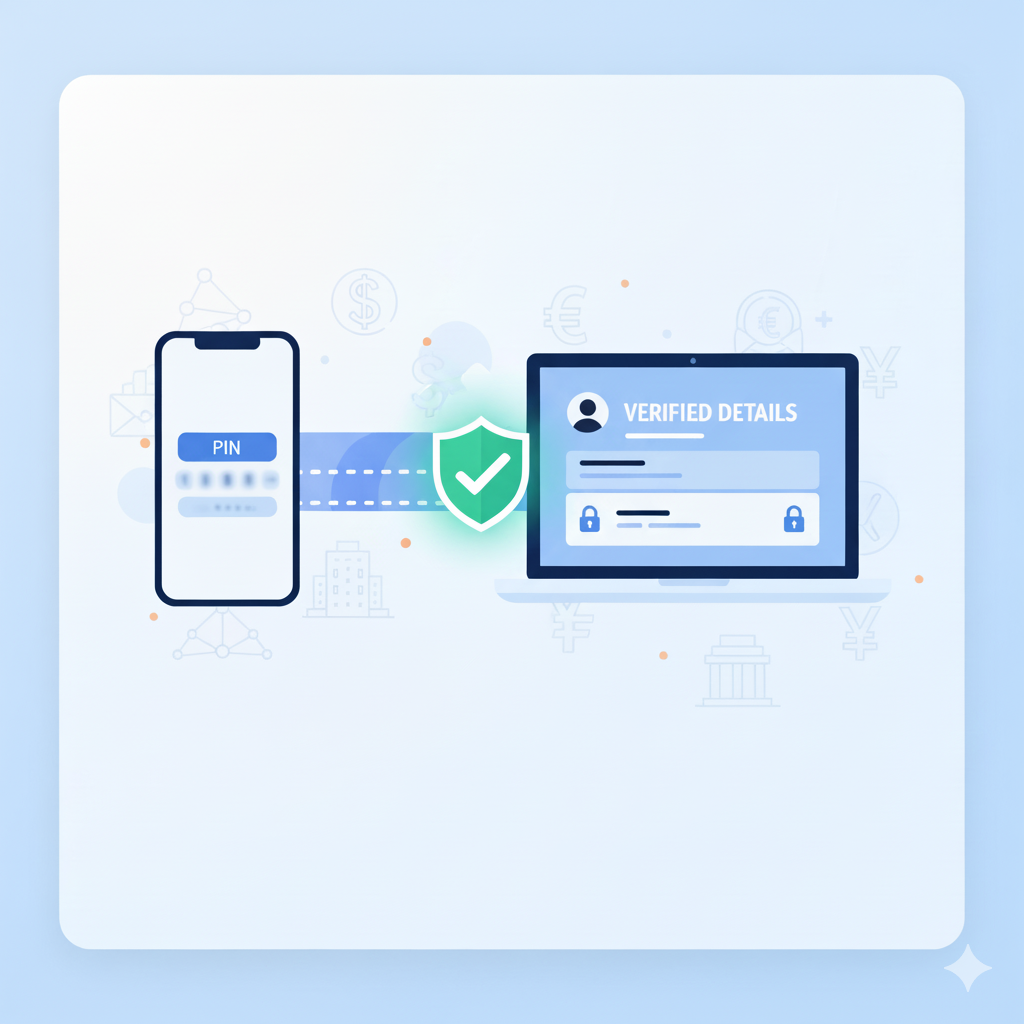
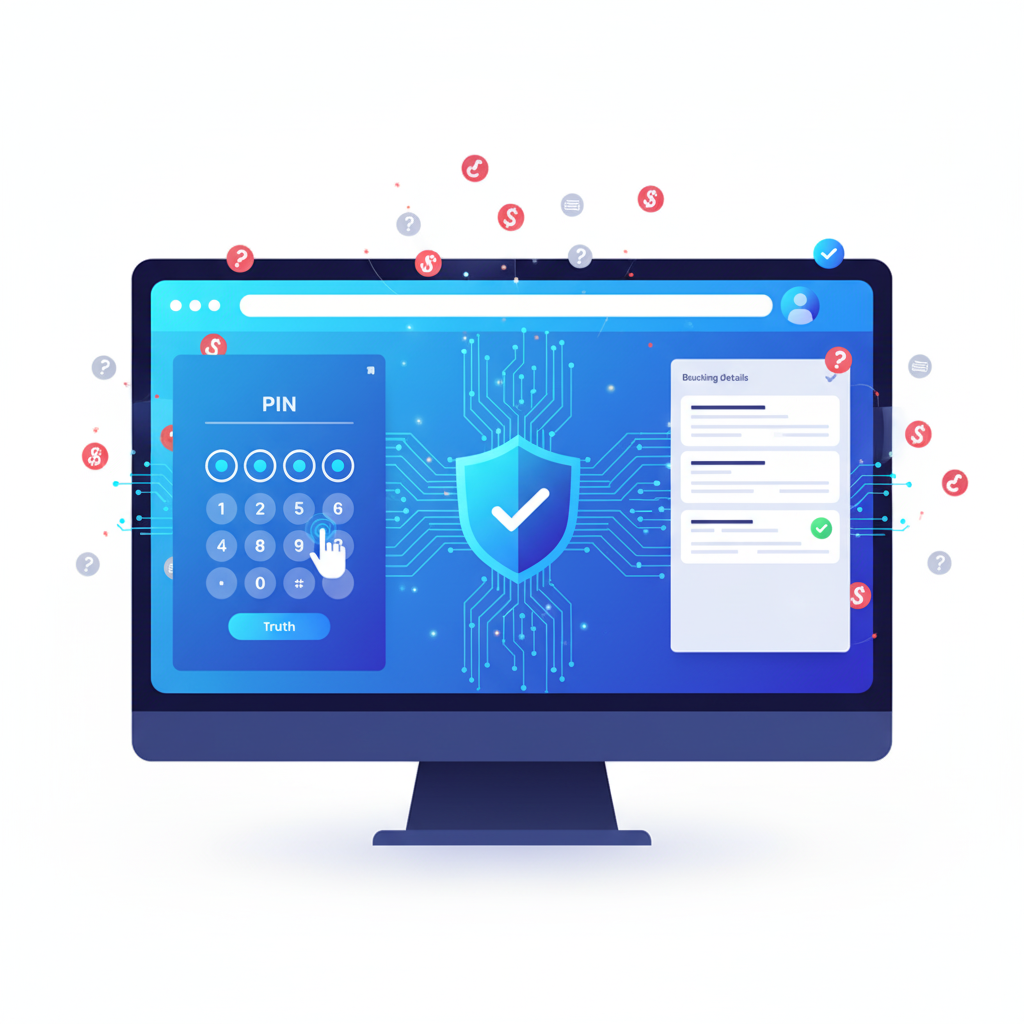
Updated all the images in the home, solutions and about us

diff --git a/app/home/components/financial-team-features.tsx b/app/home/components/financial-team-features.tsx
@@ -1,14 +1,10 @@
-import { ShieldCheck, Clock3, BarChart2, CheckCircle2 } from "lucide-react";
-import { FileLock } from "lucide-react";// example Lucide icons
-import CardsGrid from "@/components/ui/GridCard";
-import CardComponent from "@/components/ui/CardComponent";
 import CardFlowAnimation from "@/components/ui/CardFlowAnimation";
 
 const cards = [
-  { imageSrc: "/home/financial-team-features/stops-fraud.png", title: "Stops fraud at the source", subtitle: "No more fake invoices, compromised emails, or altered payment details. Every banking update is verified before it ever reaches your AP team, protecting you from the start." },
-  { imageSrc: "/home/financial-team-features/grows-network.png", title: "Grows stronger with every business", subtitle: "Each company that joins Aplite strengthens the network, making every transaction more secure. Together, we’re building the global trust layer for business payments." },
-  { imageSrc: "/home/financial-team-features/cuts-time.png", title: "Cuts verification time by 99%", subtitle: "Instantly search any business and access verified banking information in seconds. Eliminate manual checks and speed up every payment with total confidence." },
-  { imageSrc: "/home/financial-team-features/keeps-control.png", title: "Keeps you in control", subtitle: "Get real-time alerts for every banking change, with full visibility and audit-ready timestamps. Stay informed and in charge before every payment you make." },
+  { imageSrc: "/home/financial-team-features/stops.png", title: "Stops fraud at the source", subtitle: "No more fake invoices, compromised emails, or altered payment details. Every banking update is verified before it ever reaches your AP team, protecting you from the start." },
+  { imageSrc: "/home/financial-team-features/grows.png", title: "Grows stronger with every business", subtitle: "Each company that joins Aplite strengthens the network, making every transaction more secure. Together, we’re building the global trust layer for business payments." },
+  { imageSrc: "/home/financial-team-features/cuts.png", title: "Cuts verification time by 99%", subtitle: "Instantly search any business and access verified banking information in seconds. Eliminate manual checks and speed up every payment with total confidence." },
+  { imageSrc: "/home/financial-team-features/keeps.png", title: "Keeps you in control", subtitle: "Get real-time alerts for every banking change, with full visibility and audit-ready timestamps. Stay informed and in charge before every payment you make." },
   // ...add more as needed
 ];
 
@@ -22,27 +18,6 @@ export function FinancialTeamFeatures() {
       </div>
       <div className="w-full p-5">
         <CardFlowAnimation cards={cards} />
-          {/* <CardComponent
-            imageSrc="/img/AR.png"
-            title="Stops fraud at the source"
-            subtitle="No more fake invoices, compromised emails, or altered payment details. Every banking update is verified before it ever reaches your AP team, protecting you from the start."
-          />
-          <CardComponent
-            imageSrc="/img/AR.png"
-            title="Grows stronger with every business"
-            subtitle="Each company that joins Aplite strengthens the network, making every transaction more secure. Together, we’re building the global trust layer for business payments."
-          />
-          <CardComponent
-            imageSrc="/img/AR.png"
-            title="Cuts verification time by 99%"
-            subtitle="Instantly search any business and access verified banking information in seconds. Eliminate manual checks and speed up every payment with total confidence."
-          />
-          <CardComponent
-            imageSrc="/img/AR.png"
-            title="Keeps you in control"
-            subtitle="Get real-time alerts for every banking change, with full visibility and audit-ready timestamps. Stay informed and in charge before every payment you make."
-          />
-        </CardsGrid> */}
       </div>
     </div>
   );

diff --git a/app/home/components/benefits.tsx b/app/home/components/benefits.tsx
@@ -66,11 +66,11 @@ export function Benefits() {
   ];
 
   const riskImages = [
-    "/home/how-it-works/risk.png",
-    "/home/how-it-works/risk.png", 
-    "/home/how-it-works/risk.png",
-    "/home/how-it-works/risk.png",
-    "/home/how-it-works/risk.png",
+    "/home/benefits/risks.png",
+    "/home/benefits/risks.png", 
+    "/home/benefits/risks.png",
+    "/home/benefits/risks.png",
+    "/home/benefits/risks.png",
   ];
 
   const solutions = [
@@ -83,12 +83,12 @@ export function Benefits() {
   ];
 
   const solutionImages = [
-    "/home/how-it-works/solutions.png",
-    "/home/how-it-works/solutions.png",
-    "/home/how-it-works/solutions.png",
-    "/home/how-it-works/solutions.png",
-    "/home/how-it-works/solutions.png",
-    "/home/how-it-works/solutions.png",
+    "/home/benefits/solutions.png",
+    "/home/benefits/solutions.png",
+    "/home/benefits/solutions.png",
+    "/home/benefits/solutions.png",
+    "/home/benefits/solutions.png",
+    "/home/benefits/solutions.png",
   ];
 
   return (
@@ -99,7 +99,7 @@ export function Benefits() {
           <h2 className="text-4xl mb-8 md:text-7xl font-light tracking-tight text-[#24004c] text-center">
             How It Works
           </h2>
-          <p className="text-base sm:text-lg md:text-xl lg:text-2xl text-[#475569] max-w-3xl mb-6 sm:mb-8 lg:mb-10 mx-auto">
+          <p className="w-full text-lg sm:text-xl text-gray-400 leading-relaxed text-center">
             The real risks of unverified payments and how Aplite eliminates them.
           </p>
         </div>
@@ -108,7 +108,7 @@ export function Benefits() {
         <div className="mb-8 sm:mb-12 lg:mb-16 overflow-hidden">
           <div className="grid gap-6 sm:gap-8 lg:gap-20 lg:grid-cols-2 min-h-[50vh] sm:min-h-[60vh] md:min-h-[50vh] lg:min-h-[70vh]">
             {/* Left sub-section - Animated based on active risk */}
-            <div className="p-2 bg-gray-100 rounded-2xl min-h-[300px] sm:min-h-[400px]">
+            <div className=" bg-gray-100 rounded-2xl min-h-[300px] sm:min-h-[400px]">
               <div className="rounded-2xl bg-white h-full transition-all duration-500 flex items-center justify-center min-h-[280px] sm:min-h-[380px]">
                 <div className="relative w-full h-full flex items-center justify-center min-h-[260px] sm:min-h-[360px]">
                   <Image
@@ -211,14 +211,14 @@ export function Benefits() {
             </div>
 
             {/* Right sub-section - Animated based on active solution */}
-            <div className="p-2 bg-gray-100 rounded-2xl min-h-[300px] sm:min-h-[400px]">
+            <div className=" bg-gray-100 rounded-2xl min-h-[300px] sm:min-h-[400px]">
               <div className="rounded-2xl bg-white h-full transition-all duration-500 flex items-center justify-center min-h-[280px] sm:min-h-[380px]">
                 <div className="relative w-full h-full flex items-center justify-center min-h-[260px] sm:min-h-[360px]">
                   <Image
                     src={solutionImages[activeSolutionIndex] || "/home/solutions.png"}
                     alt={`Solution ${activeSolutionIndex + 1}`}
                     fill
-                    className={`rounded-lg object-cover transition-all duration-500 ${
+                    className={`rounded-lg object-contain transition-all duration-500 ${
                       activeSolutionIndex === 0 ? '' :
                       activeSolutionIndex === 1 ? '' :
                       activeSolutionIndex === 2 ? '' :

diff --git a/app/home/components/before-after-aplite.tsx b/app/home/components/before-after-aplite.tsx
@@ -9,9 +9,9 @@ type FeatureItem = {
 };
 
 const beforeFeatures: FeatureItem[] = [
-  { icon: Mail, title: "Scattered Communication Channels", description: "Businesses manage banking info via emails, invoices, and phone calls, with no central system.", sizeprop: "md" },
-  { icon: AlertTriangle, title: "No Way to Verify Details", description: "Any typo or compromised email can lead to severe financial losses—average $183K per incident.", sizeprop: "md" },
-  { icon: ShieldAlert, title: "Email Is the #1 Fraud Vector", description: "Banking changes arrive through email, making every update a massive risk for fraud.", sizeprop: "md" },
+  { icon: Mail, title: "Scattered Communication Channels", description: "Businesses manage banking info via emails, invoices, and phone calls, with no central system."},
+  { icon: AlertTriangle, title: "No Way to Verify Details", description: "Any typo or compromised email can lead to severe financial losses—average $183K per incident."},
+  { icon: ShieldAlert, title: "Email Is the #1 Fraud Vector", description: "Banking changes arrive through email, making every update a massive risk for fraud." },
   { icon: Clock, title: "Wasted Verification Effort", description: "Finance teams spend hours cross-checking info across sources, still exposed to risk." },
   { icon: Database, title: "No Central Repository", description: "Lack of a unified, verifiable source causes confusion, delays, and increased exposure." },
 ];
@@ -35,7 +35,7 @@ const FeatureSection = ({ title, features }: { title: string; features: FeatureI
         <div key={index} className="flex items-start gap-4 sm:gap-6 lg:gap-8">
           <div>
             <ReusableReactIcon
-              sizeprop={feature.sizeprop || "sm"}
+              sizeprop={"md"}
               squareBgColor="#003cff"
               icon={feature.icon}
               iconBgColor="#93c5fd"
@@ -58,7 +58,7 @@ export function BeforeAfterAplite() {
         <h2 className="text-4xl mb-8 md:text-7xl font-light tracking-tight text-[#24004c] text-center">
           How Businesses Handle <br /> Banking Information - And How Aplite Redefines It
         </h2>
-        <p className="text-center text-gray-600 mb-5 sm:mb-7 text-sm sm:text-base px-4 sm:px-0">
+        <p className="w-full text-lg sm:text-xl text-gray-400 leading-relaxed text-center">
           The traditional approach exposes businesses to fraud and errors.<br />
           Here's how Aplite transforms the process.
         </p>

diff --git a/app/home/components/aplite-advantage.tsx b/app/home/components/aplite-advantage.tsx
@@ -52,10 +52,10 @@ export function ApliteAdvantage() {
   ];
 
   const advantageImages = [
-    "/solutions/erp/workflow-5.png",
-    "/solutions/erp/workflow-4.png",
-    "/solutions/ar-teams/workflow-1.png",
-    "/solutions/ar-teams/workflow-4.png",
+    "/home/aplite-advantage/single-source.png",
+    "/home/aplite-advantage/immutable-payment.png",
+    "/home/aplite-advantage/real-time.png",
+    "/home/aplite-advantage/built-future.png",
   ];
 
   return (
@@ -65,7 +65,7 @@ export function ApliteAdvantage() {
           <h2 className="text-4xl mb-8 md:text-7xl font-light tracking-tight text-[#24004c] text-center">
             Aplite Advantage
           </h2>
-          <p className="text-center text-gray-600 mb-5 sm:mb-7 text-sm sm:text-base px-4 sm:px-0">
+          <p className="w-full text-lg sm:text-xl text-gray-400 leading-relaxed text-center">
             Discover how Aplite transforms your payment process.
           </p>
         </div>
@@ -114,7 +114,7 @@ export function ApliteAdvantage() {
             </div>
 
             {/* Right sub-section - Animated based on active solution */}
-            <div className="p-2 bg-gray-100 rounded-2xl min-h-[300px] sm:min-h-[400px]">
+            <div className="bg-white rounded-2xl min-h-[300px] sm:min-h-[400px]">
               <div className="rounded-2xl bg-white h-full transition-all duration-500 flex items-center justify-center min-h-[280px] sm:min-h-[380px]">
                 <div className="relative w-full h-full flex items-center justify-center min-h-[260px] sm:min-h-[360px]">
                   <Image

diff --git a/app/company/Sections/Section3.tsx b/app/company/Sections/Section3.tsx
@@ -12,22 +12,22 @@ export default function Section3() {
       <div className="mb-40">
         <CardsGrid>
         <CardComponent
-          imageSrc="/solutions/ap-teams/hero.png"
+          imageSrc="/company/hero-ap.png"
           title="For accounts payable teams"
           subtitle="Search, verify, and pay in seconds."
         />
         <CardComponent
-          imageSrc="/solutions/ar-teams/hero.png"
+          imageSrc="/company/hero-ar.png"
           title="For accounts receivable teams"
           subtitle="Share your banking information securely through an immutable payment profile that customers can trust."
         />
         <CardComponent
-          imageSrc="/solutions/banks-fintech/hero.png"
+          imageSrc="/company/hero-banks.png"
           title="Banks and fintech's"
           subtitle="Integrate verified, structured payment data that reduces errors, speeds processing, and eliminates fraud risk."
         />
         <CardComponent
-          imageSrc="/solutions/ai-agents/hero.png"
+          imageSrc="/company/hero-ai.png"
           title="The agentic future"
           subtitle="We're building the structured payment infrastructure that AI agents need to process transactions autonomously and accurately."
         />

diff --git a/components/ui/CardFlowAnimation.tsx b/components/ui/CardFlowAnimation.tsx
@@ -64,15 +64,15 @@ export default function CardFlowAnimation({ cards }: CardFlowAnimationProps) {
           scale = 1;
         } else if (position === 1) {
           // Next card - mobile: below, desktop: right
-          transform = isMobile ? "translateX(0px) translateY(160px)" : "translateX(280px) translateY(20px)";
+          transform = isMobile ? "translateX(0px) translateY(200px)" : "translateX(360px) translateY(30px)";
           zIndex = 20;
-          opacity = 0.7;
+          opacity = 0.5;
           scale = 0.85;
         } else if (position === cards.length - 1) {
           // Previous card - mobile: above, desktop: left
-          transform = isMobile ? "translateX(0px) translateY(-160px)" : "translateX(-280px) translateY(20px)";
+          transform = isMobile ? "translateX(0px) translateY(-200px)" : "translateX(-360px) translateY(30px)";
           zIndex = 20;
-          opacity = 0.7;
+          opacity = 0.5;
           scale = 0.85;
         } else {
           // Hidden cards behind

diff --git a/app/home/components/stats.tsx b/app/home/components/stats.tsx
@@ -14,17 +14,17 @@ export function Stats() {
       <div className="">
         <CardsGrid>
           <CardComponent
-            imageSrc="/home/stats/79-percent.png"
+            imageSrc="/home/stats/79-percentage.png"
             title="79%"
             subtitle="of organizations faced payment fraud in 2024 - AFP 2024 Payments Fraud and Control Report"
           />
           <CardComponent
-            imageSrc="/home/stats/50-billion.png"
+            imageSrc="/home/stats/50-billions.png"
             title="$50B+"
             subtitle="lost to vendor impersonation and wire scams - FBI IC3 2024 Internet Crime Report"
           />
           <CardComponent
-            imageSrc="/home/stats/183k-loss.png"
+            imageSrc="/home/stats/183k-losses.png"
             title="$183k"
             subtitle="average loss per incident from payment fraud attacks"
           />

diff --git a/app/FAQ/page.tsx b/app/FAQ/page.tsx
@@ -79,7 +79,7 @@ export default function FAQPage() {
           buttonLabel=""
         />
       </div>
-      <div className="bg-white m-2 sm:m-4 md:m-6 lg:m-8 xl:m-12 rounded-xl sm:rounded-2xl p-12 sm:p-6 lg:p-12 overflow-hidden">
+      <div className="bg-white m-2 sm:m-4 md:m-6 lg:m-8 xl:m-10 rounded-xl sm:rounded-2xl p-12 sm:p-6 lg:p-12 overflow-hidden">
         <div className="w-full mx-auto py-8">
           <ul className="space-y-4">
             {faqs.map((faq, idx) => (

diff --git a/app/home/components/bigger-problem.tsx b/app/home/components/bigger-problem.tsx
@@ -9,7 +9,7 @@ export function BiggerProblem() {
         The Problem Is Bigger Than Fraud
       </h2>
       {/* Subtitle */}
-      <p className="text-sm sm:text-base md:text-lg lg:text-xl text-center text-gray-600 mb-6 sm:mb-8 px-4 sm:px-0 max-w-4xl mx-auto">
+      <p className="w-full text-lg sm:text-xl text-gray-400 leading-relaxed text-center">
         The current system is broken in ways most people don&apos;t realize:
       </p>
       {/* Data Rows */}

diff --git a/app/home/components/who-we-serve.tsx b/app/home/components/who-we-serve.tsx
@@ -8,7 +8,7 @@ export function WhoWeServe() {
           Who We Serve
         </h2>
       </div>
-      <div className="">
+      <div className="w-full">
         <CardFlowAnimation cards={[
           {
             imageSrc: "/home/who-we-serve/hero-ap.png",

diff --git a/app/home/components/tagline-sec.tsx b/app/home/components/tagline-sec.tsx
@@ -1,4 +1,4 @@
-import { Search, ArrowRight } from "lucide-react";
+import { Search } from "lucide-react";
 import Button from "../../../components/ui/Buttons";
 
 export default function TaglineSec() {
